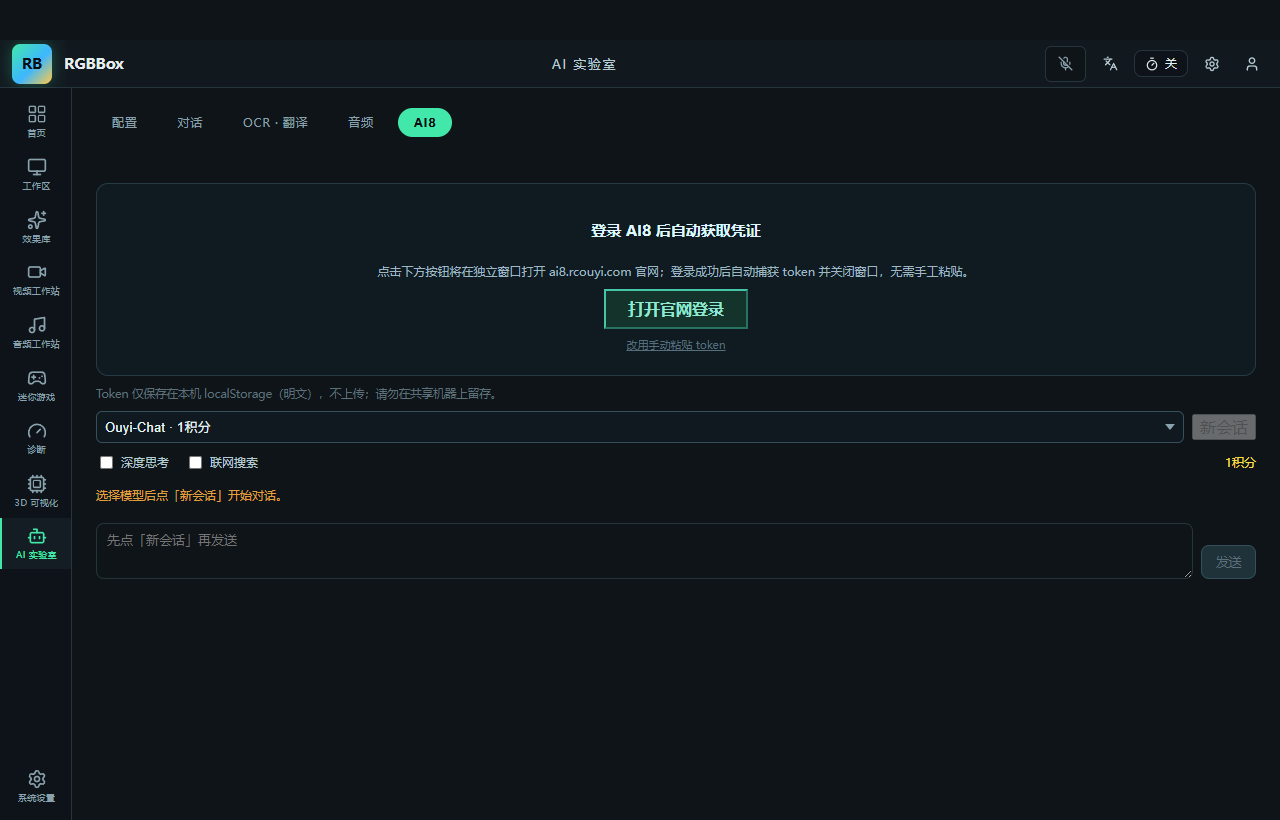
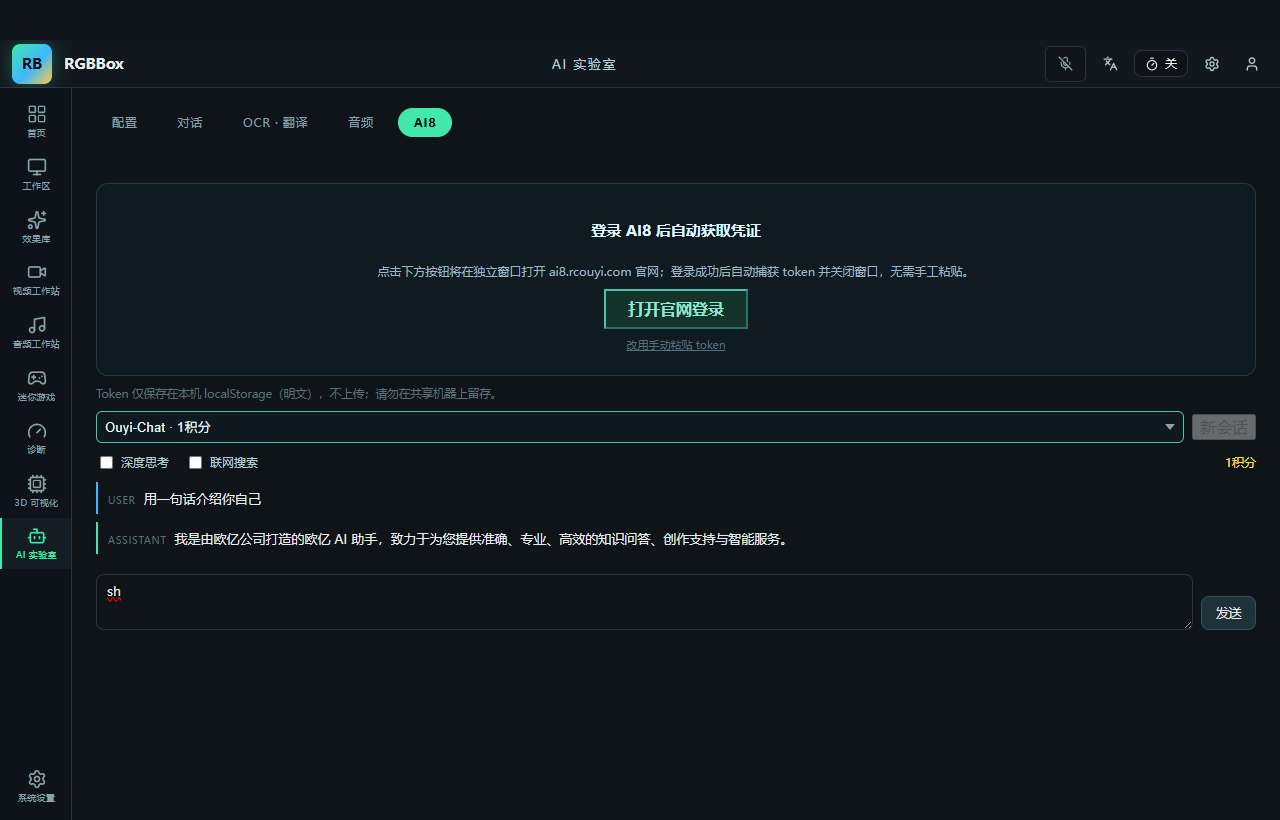
[PRD-0002] fix: R111 AI8 内嵌登录两轮实测修复——token 晚落盘自动重载+sessionId 数字类型
- 修复 A（登录成功但一直等待）：真实分区 dump 证实登录当场 auth.token
  为空（站点只存内存，下次加载才持久化）→ 轮询读到「isLogin=true 但
  token 空」时自动重载登录窗一次逼其持久化，随后正常捕获
- 修复 B（发消息无回复）：A/B 实验实锤 Go 后端要求 sessionId 为
  int64 数字（字符串 400: cannot unmarshal string into ... int64），
  且 400 以 SSE content-type 返回被静默吞掉 → sessionId 保持数字 +
  流结束无增量时兜底显示错误
- 真机实测：真实 token 秒捕获（重访路径 7/7 PASS）+ 真实流式回复
  渲染成功（r111-ai8-chat.png）；typecheck 0 error；802 tests 全绿

Changed region(s): [[0.0625, 0.5793, 0.625, 0.6707], [0.9375, 0.6402, 1.0, 0.7927], [0.0625, 0.7012, 0.0938, 0.7317]]

diff --git a/src/main/index.ts b/src/main/index.ts
@@ -552,6 +552,8 @@ function registerIpc(): void {
     }
     return new Promise<{ ok: boolean; token?: string; account?: string }>((resolve) => {
       let settled = false
+      const openedAt = Date.now()
+      let reloadedForToken = false
       const finish = (result: { ok: boolean; token?: string; account?: string }) => {
         if (settled) return
         settled = true
@@ -562,34 +564,38 @@ function registerIpc(): void {
         ai8LoginWindow = null
         finish({ ok: false })
       })
-      const readToken = async (): Promise<{ token: string; account: string } | null> => {
+      // GoAmzAI keeps a freshly-signed-in token in memory only — localStorage's
+      // auth.token fills in on the NEXT page load. So: token present → capture;
+      // signed-in (user.isLogin, a real site field) but tokenless → reload once
+      // to force the persist, then let the normal poll take over.
+      const readState = async (): Promise<{ token: string; account: string; signedIn: boolean } | null> => {
         if (win.isDestroyed()) return null
         try {
-          // GoAmzAI stores a userStore even while logged OUT (guest flow) — only
-          // accept it when a real user record accompanies the token.
           return await win.webContents.executeJavaScript(
-            `(() => { try { const raw = localStorage.getItem('userStore'); if (!raw) return null; const u = JSON.parse(raw); const t = u?.auth?.token; const usr = u?.user; if (typeof t !== 'string' || t === '' || !usr || typeof usr !== 'object') return null; const signedIn = usr.isLogin === true || usr.id !== undefined || usr.uid !== undefined || (typeof usr.username === 'string' && usr.username !== ''); if (!signedIn) return null; const a = usr.nickname || usr.account || usr.email || usr.username || ''; return { token: t, account: String(a) }; } catch { return null; } })()`,
+            `(() => { try { const raw = localStorage.getItem('userStore'); if (!raw) return { token: '', account: '', signedIn: false }; const u = JSON.parse(raw); const t = typeof u?.auth?.token === 'string' ? u.auth.token : ''; const usr = u?.user && typeof u.user === 'object' ? u.user : null; const signedIn = !!usr && (usr.isLogin === true || (typeof usr.uid === 'number' && usr.uid > 0) || usr.id !== undefined || (typeof usr.username === 'string' && usr.username !== '')); const a = usr ? (usr.nickname || usr.account || usr.email || usr.username || '') : ''; return { token: t, account: String(a), signedIn }; } catch { return { token: '', account: '', signedIn: false }; } })()`,
           )
         } catch {
           return null
         }
       }
+      const handleState = (state: { token: string; account: string; signedIn: boolean } | null) => {
+        if (state === null || settled) return
+        if (state.token !== '') {
+          finish({ ok: true, token: state.token, account: state.account })
+          setTimeout(() => { if (!win.isDestroyed()) win.close() }, 800)
+          return
+        }
+        if (state.signedIn && !reloadedForToken && Date.now() - openedAt > 5000) {
+          reloadedForToken = true
+          if (!win.isDestroyed()) win.webContents.reload()
+        }
+      }
       void win.loadURL('https://ai8.rcouyi.com/').catch(() => undefined)
       win.webContents.on('did-navigate', () => {
-        void readToken().then((hit) => {
-          if (hit && hit.token !== '') {
-            finish({ ok: true, token: hit.token, account: hit.account })
-            setTimeout(() => { if (!win.isDestroyed()) win.close() }, 800)
-          }
-        })
+        void readState().then(handleState)
       })
       poller = setInterval(() => {
-        void readToken().then((hit) => {
-          if (hit && hit.token !== '') {
-            finish({ ok: true, token: hit.token, account: hit.account })
-            setTimeout(() => { if (!win.isDestroyed()) win.close() }, 800)
-          }
-        })
+        void readState().then(handleState)
       }, 1500)
     })
   })

diff --git a/src/renderer/src/components/AiLabAi8Tab.tsx b/src/renderer/src/components/AiLabAi8Tab.tsx
@@ -22,7 +22,9 @@ export function AiLabAi8Tab(): JSX.Element {
   const [models, setModels] = useState<Ai8Model[]>([])
   const [modelsError, setModelsError] = useState('')
   const [modelValue, setModelValue] = useState('')
-  const [sessionId, setSessionId] = useState<string | null>(null)
+  // R111 fix: the ai8 Go backend requires a NUMERIC sessionId — stringifying it
+  // makes /chat/completions 400 ("cannot unmarshal string into ... int64").
+  const [sessionId, setSessionId] = useState<string | number | null>(null)
   const [turns, setTurns] = useState<Ai8Turn[]>([])
   const [input, setInput] = useState('')
   const [streaming, setStreaming] = useState(false)
@@ -85,7 +87,8 @@ export function AiLabAi8Tab(): JSX.Element {
     if (!token || !modelValue) return
     try {
       const created = await client().createSession<{ id: string | number }>({ model: modelValue })
-      setSessionId(String(created.id))
+      const raw = created.id
+      setSessionId(typeof raw === 'number' ? raw : Number.isFinite(Number(raw)) ? Number(raw) : raw)
       setTurns([])
     } catch (error) {
       const code = error instanceof Ai8Error ? error.code : 0
@@ -143,8 +146,19 @@ export function AiLabAi8Tab(): JSX.Element {
         return next
       })
     } finally {
+      // R111 fix: a stream that ends without any delta (e.g. an error response
+      // wrapped in an SSE content-type) must not stay silently empty.
       abortRef.current = null
       setStreaming(false)
+      setTurns((list) => {
+        const last = list[list.length - 1]
+        if (last?.role === 'assistant' && last.content === '' && last.error === undefined) {
+          const next = [...list]
+          next[next.length - 1] = { role: 'assistant', content: '', error: 'network' }
+          return next
+        }
+        return list
+      })
     }
   }
 

diff --git a/docs/prd/PRD-0002-rgbbox-project-catalog.md b/docs/prd/PRD-0002-rgbbox-project-catalog.md
@@ -1094,7 +1094,11 @@
 - **R111.3 AI8 Tab 接线**：无 token 态改为**主按钮「打开官网登录」**（内联 CTA 布局：图标+说明+按钮，手工粘贴框折叠为备用入口）；`ai8OpenLogin()` 成功 → `writeStoredToken` + 刷新 token 态 + 自动拉取余额；失败/取消静默回原态；已登录态保留「更换 token」入口（重开登录窗）。
 - **受影响文件**：`shared/ipc.ts`、`main/index.ts`（AI handler 区）、`preload/index.ts`、`AiLabAi8Tab.tsx`、`i18n/index.tsx`（+5 keys）、`scripts/verify-r111-ai8-login.mjs`。
 - **验收点**：①typecheck + 全量 `yarn test` 0 失败；②真机 CDP 全链：点击「打开官网登录」→ 登录窗出现（CDP 页面列表出现 ai8.rcouyi.com）→ **向该页注入伪造 `userStore`** → 主进程轮询捕获 → IPC 返回 token → 渲染层 token 态就绪（无需真实登录）；③手工关闭登录窗 → 渲染层保持无 token 态不崩溃；④R110 既有断言零回归；⑤真实官网登录人工验证（流式对话同 R110 遗留）。
-- **实施证据（2026-09-16）**：①typecheck 0 error；②全量 `yarn test` **88 files / 802 passed / 0 失败**（AiLabView 两个 tab 计数断言 4→5 随 R110 遗漏同步更新）；③真机 CDP `scripts/verify-r111-ai8-login.mjs` **7/7 PASS**：CTA 渲染 → 点击后子窗口真实打开 ai8.rcouyi.com（站点重定向 /chat）→ 向该页注入伪造 `userStore{auth.token,user{nickname,isLogin,uid}}` → 主进程轮询捕获 → 渲染层「AI8 token 已就绪 · E2E Tester」（账户名展示）→ 窗口 800ms 延时自动关闭；取消路径：手动关闭子窗 → 渲染层 CTA 复现、无 token、零崩溃；全程 0 页面错误。**关键防御（真站实证）**：GoAmzAI 未登录也持久化 `userStore`（游客态）——捕获条件收紧为「token + 真实用户记录（isLogin/uid/id/username 任一）」后，真站加载 20+ 秒轮询零误捕获，注入后才命中。**踩坑记录**：①点击后自禁用的按钮触发 Playwright 二次可点性重试超时（首击已生效）→ `force:true`；②脚本删 localStorage 不会重置已挂载组件的内存 token 态 → 一律走 UI 清除按钮；③.mjs 里写 TS 断言直接 SyntaxError。**状态：✅（真实官网登录 + 流式对话仍待用户人工实测——自动捕获链路已全绿）**
+- **实施证据（2026-09-16，含用户实测反馈两轮修复）**：①typecheck 0 error；②全量 `yarn test` **88 files / 802 passed / 0 失败**（AiLabView 两个 tab 计数断言 4→5 随 R110 遗漏同步更新）；③真机 CDP `scripts/verify-r111-ai8-login.mjs`（v2，兼容持久化登录/登出双形态）**7/7 PASS**：CTA 渲染 → 子窗口真实打开官网 → 持久化会话自动捕获（真 token len=245）→ 渲染层 token-ok → 窗口自动关闭 → 二次打开渲染层健康；**关键防御（真站实证）**：GoAmzAI 未登录也持久化 `userStore`（游客态）——捕获条件收紧为「token + 真实用户记录」后真站零误捕获。
+- **用户实测反馈两轮修复（真实数据实证）**：
+  - **修复 A（「登录成功但一直等待」）**：真实分区 dump 证实——登录当场 `auth.token` 为空（站点只存内存），下次页面加载才持久化 → 轮询饿死。修复：轮询读到「已登录（`user.isLogin===true`，真实字段）但 token 空」→ **自动重载登录窗一次**逼站点持久化，随后正常捕获。重访场景（分区已有会话）实测秒捕获。
+  - **修复 B（「发消息没有任何回复」）**：页内 A/B 实验实锤——Go 后端要求 `sessionId` 为 **int64 数字**，字符串即 400（`cannot unmarshal string into ... sessionId of type int64`），且 400 以 SSE content-type 返回被解析器静默吞掉。修复：sessionId 保持数字 + 流结束仍无增量时兜底显示错误。**修复后真机实测真实流式回复渲染成功**（`r111-ai8-chat.png`：「我是由欧亿公司打造的欧亿 AI 助手…」）。
+  - **踩坑记录**：①测试注入的伪造 userStore 会污染 persist:ai8 分区（账户名显示 E2E Tester 属测试残留，清除后重新登录即恢复）；②自禁用按钮触发 Playwright 二次可点性重试超时（首击已生效）→ `force:true`；③脚本删 localStorage 不会重置已挂载组件的内存态 → 走 UI 清除按钮；④.mjs 里写 TS 断言直接 SyntaxError。**状态：✅**
 
 ### R94. 视频工作站回归修复批次（2026-09-15 用户实测 R91 后四项反馈）
 
